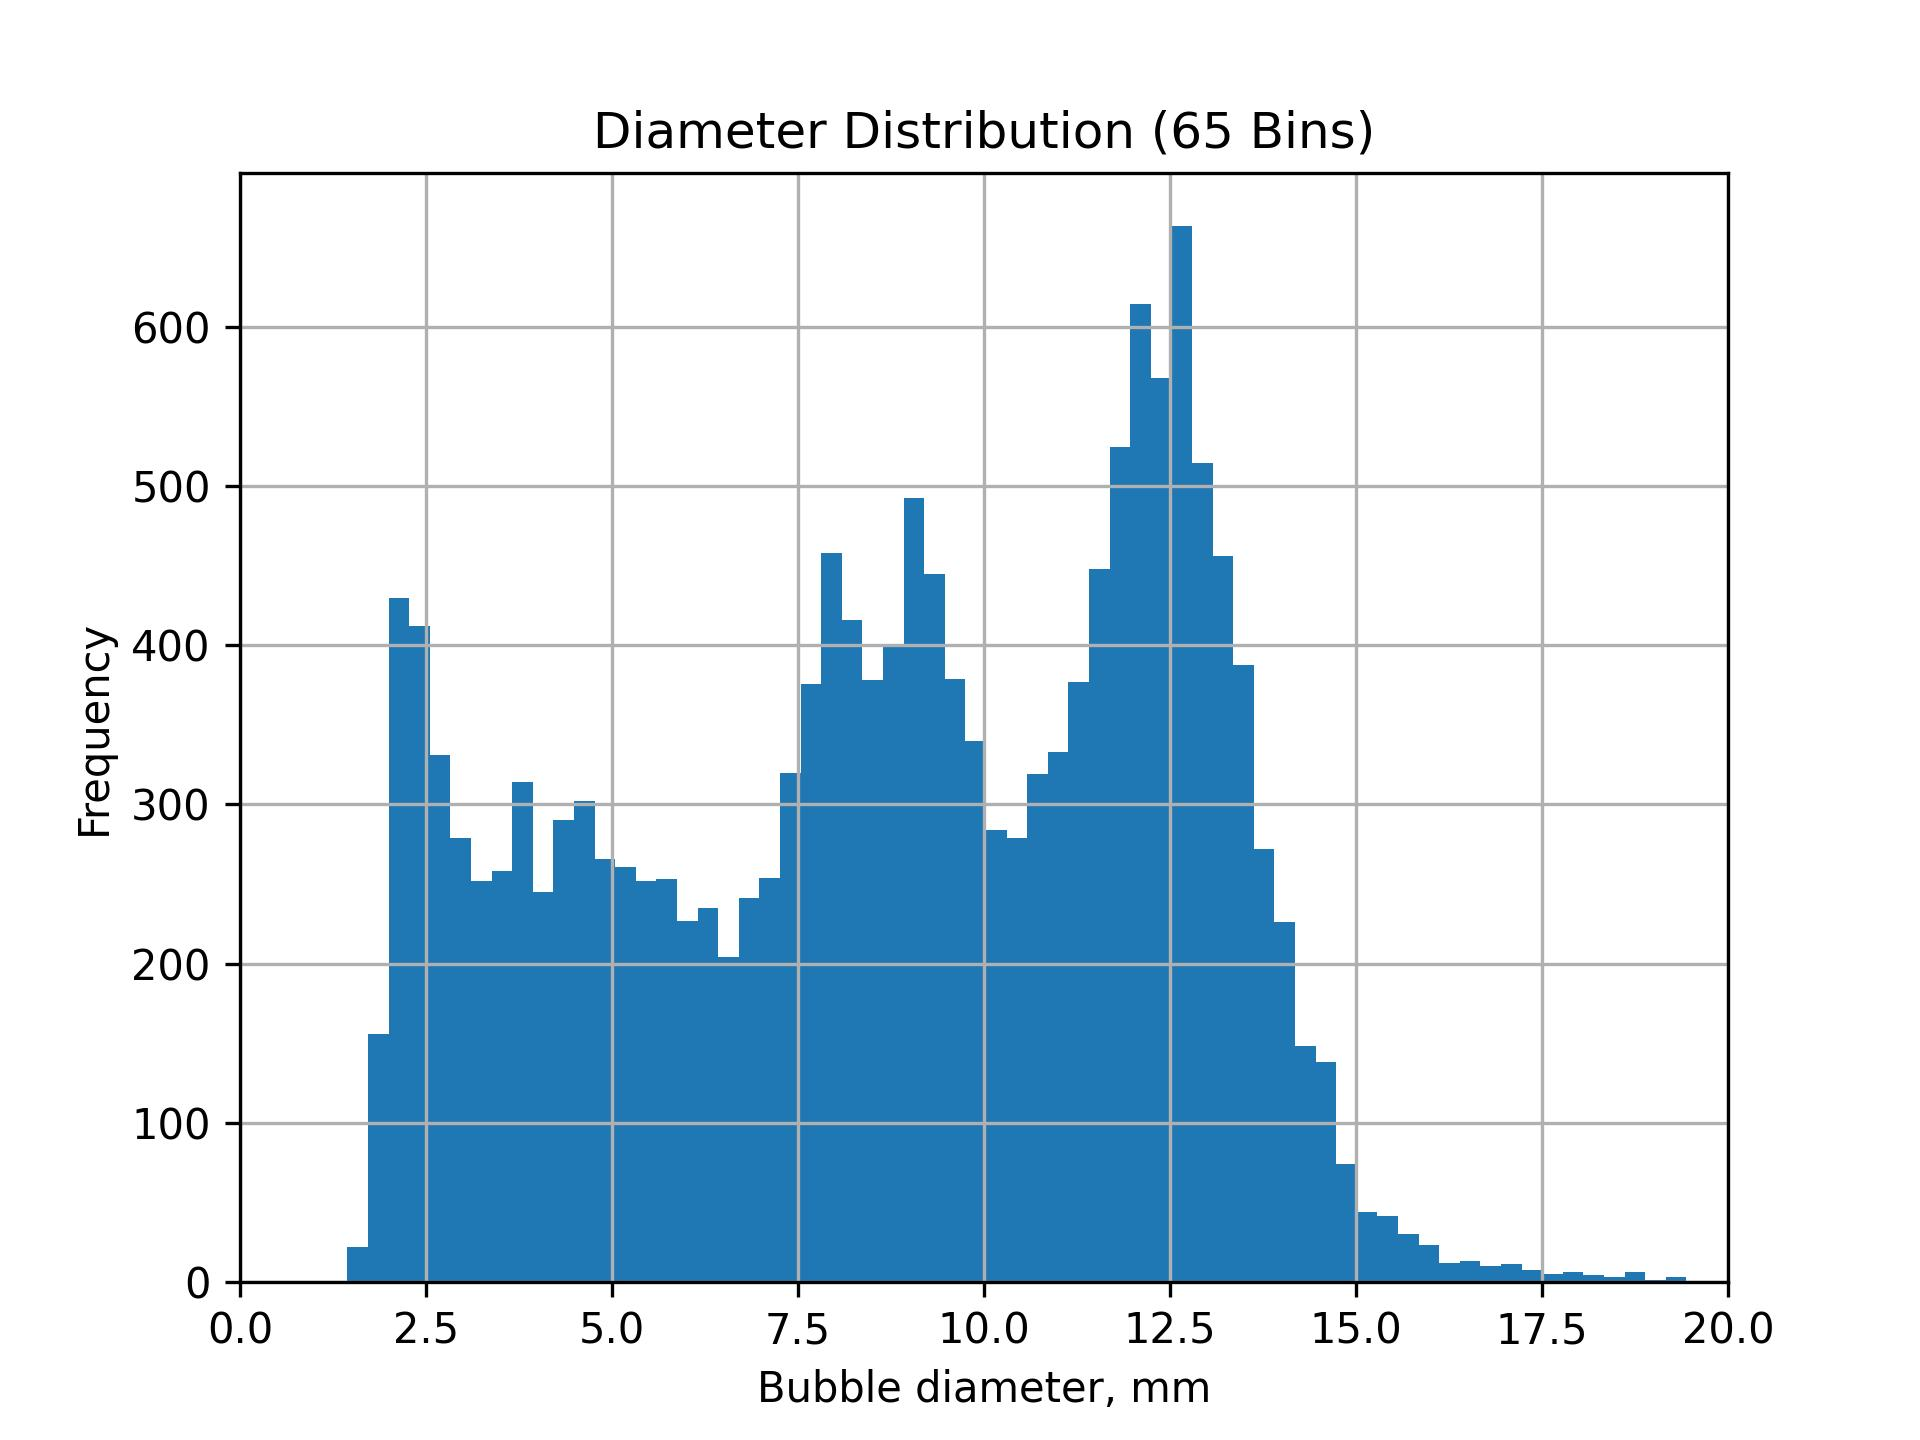
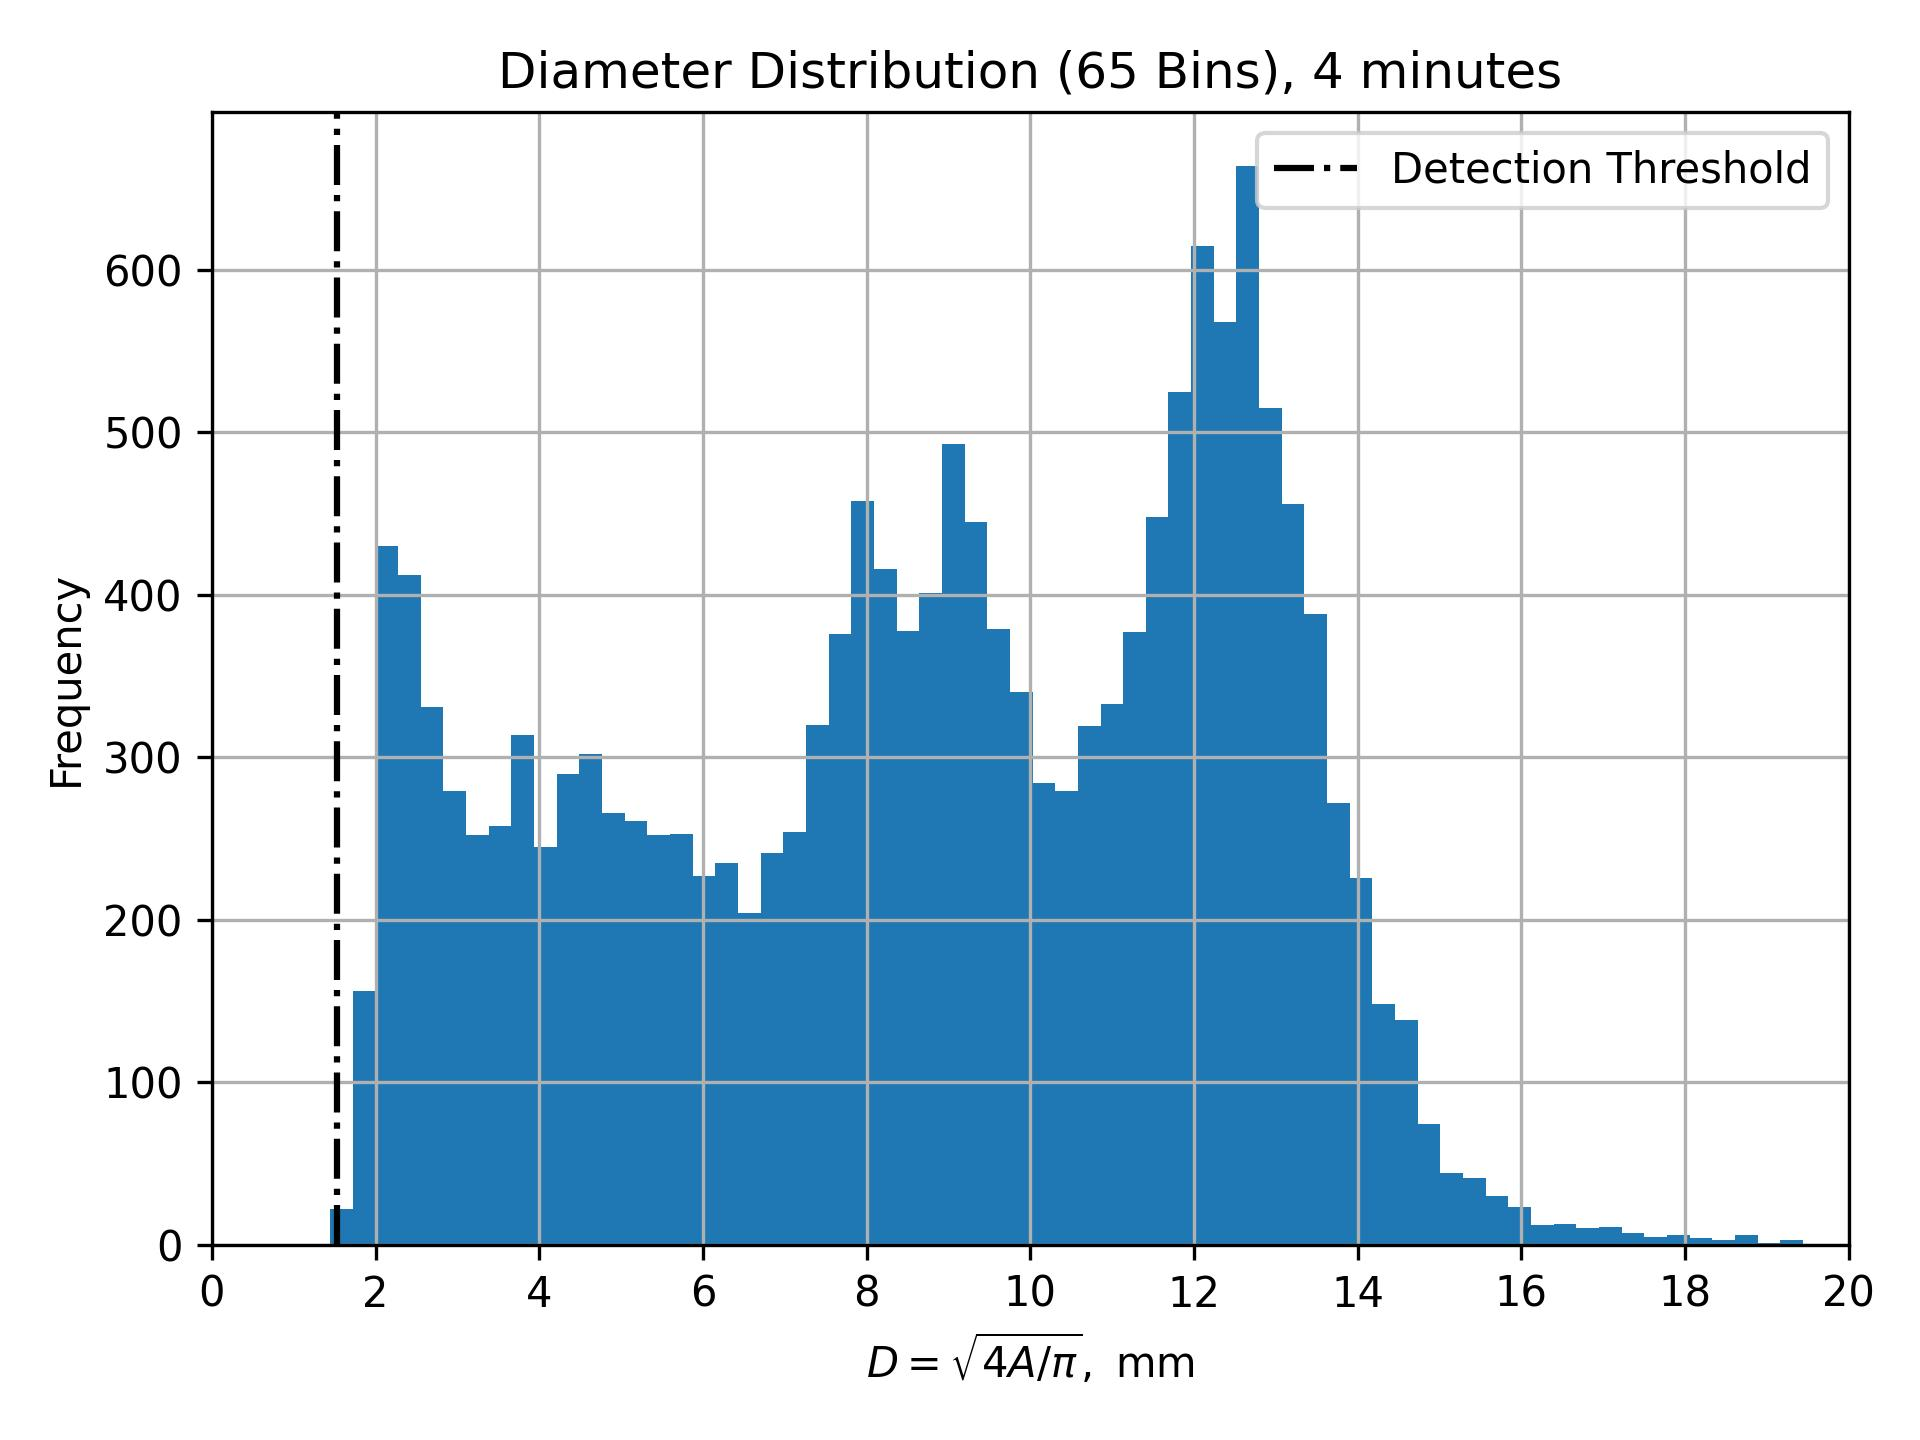
cleaner plot

diff --git a/v2/061019_0.7scfh_125fps_C001H001S0001/Jiaqi_python.py b/v2/061019_0.7scfh_125fps_C001H001S0001/Jiaqi_python.py
@@ -5,6 +5,7 @@ from glob import glob
 import pandas as pd
 from skimage import measure
 import matplotlib.pyplot as plt
+from matplotlib.ticker import MultipleLocator
 
 # -----------------------
 # USER SETTINGS
@@ -117,17 +118,19 @@ for i, path in enumerate(image_paths):
     img = cv2.imread(path, cv2.IMREAD_GRAYSCALE)
     clean, bw, filled = process_frame(img, bg_inv)
 
-    # initialize accumulator
-    if vof_accumulator is None:
-        vof_accumulator = np.zeros_like(filled, dtype=np.float32)
+    # # initialize accumulator
+    # if vof_accumulator is None:
+    #     vof_accumulator = np.zeros_like(filled, dtype=np.float32)
 
-    vof_accumulator += filled.astype(np.float32) / n_frames
+    # vof_accumulator += filled.astype(np.float32) / n_frames
 
     # save outputs
     name = f"{i:05d}"
+
+    ##save images for debugging
     # cv2.imwrite(os.path.join(output_dir, f"{name}_clean.png"), clean)
     # cv2.imwrite(os.path.join(output_dir, f"{name}_bw.png"), bw)
-    cv2.imwrite(os.path.join(output_dir, f"{name}_filled.png"), filled)
+    # cv2.imwrite(os.path.join(output_dir, f"{name}_filled.png"), filled)
 
     # -----------------------
     # bubble detection
@@ -156,8 +159,8 @@ for i, path in enumerate(image_paths):
 # -----------------------
 # FINAL VOF IMAGE
 # -----------------------
-vof = (vof_accumulator * 255).astype(np.uint8)
-cv2.imwrite(os.path.join(output_dir, "vof.png"), vof)
+# vof = (vof_accumulator * 255).astype(np.uint8)
+# cv2.imwrite(os.path.join(output_dir, "vof.png"), vof)
 
 # -----------------------
 # WRITE CSV
@@ -170,11 +173,16 @@ diameter=np.array(df["diameter_px"])
 
 plt.figure()
 plt.hist(diameter/333*25.4*2.5, bins=65)
-plt.xlim(0,20)
+plt.axvline(8/333*25.4*2.5,color='k', linestyle='-.',label='Detection Threshold')
+# plt.axvline(11/333*25.4*2.5,color='k',label='Single Pixel')
+plt.xlim(0, 20)
+plt.gca().xaxis.set_major_locator(MultipleLocator(2))
+plt.legend()
 plt.grid()
-plt.xlabel("Bubble diameter, mm")
+plt.xlabel(r"$D=\sqrt{4A/\pi},\ \mathrm{mm}$")
 plt.ylabel("Frequency")
-plt.title("Diameter Distribution (65 Bins)")
+plt.title("Diameter Distribution (65 Bins), 4 minutes")
+plt.tight_layout()
 plt.savefig('hist.jpg',dpi=300)
 
 

diff --git a/v2/061019_0.7scfh_125fps_C001H001S0001/ProcessVideo.py b/v2/061019_0.7scfh_125fps_C001H001S0001/ProcessVideo.py
@@ -15,7 +15,7 @@ background = cv2.imread("background.jpg")
 
 # Time trimming (in seconds)
 start_time = 0.0
-end_time = start_time+260
+end_time = start_time+130
 duration = None  # e.g. 5.0 (used only if end_time is None)
 
 # Processing settings
